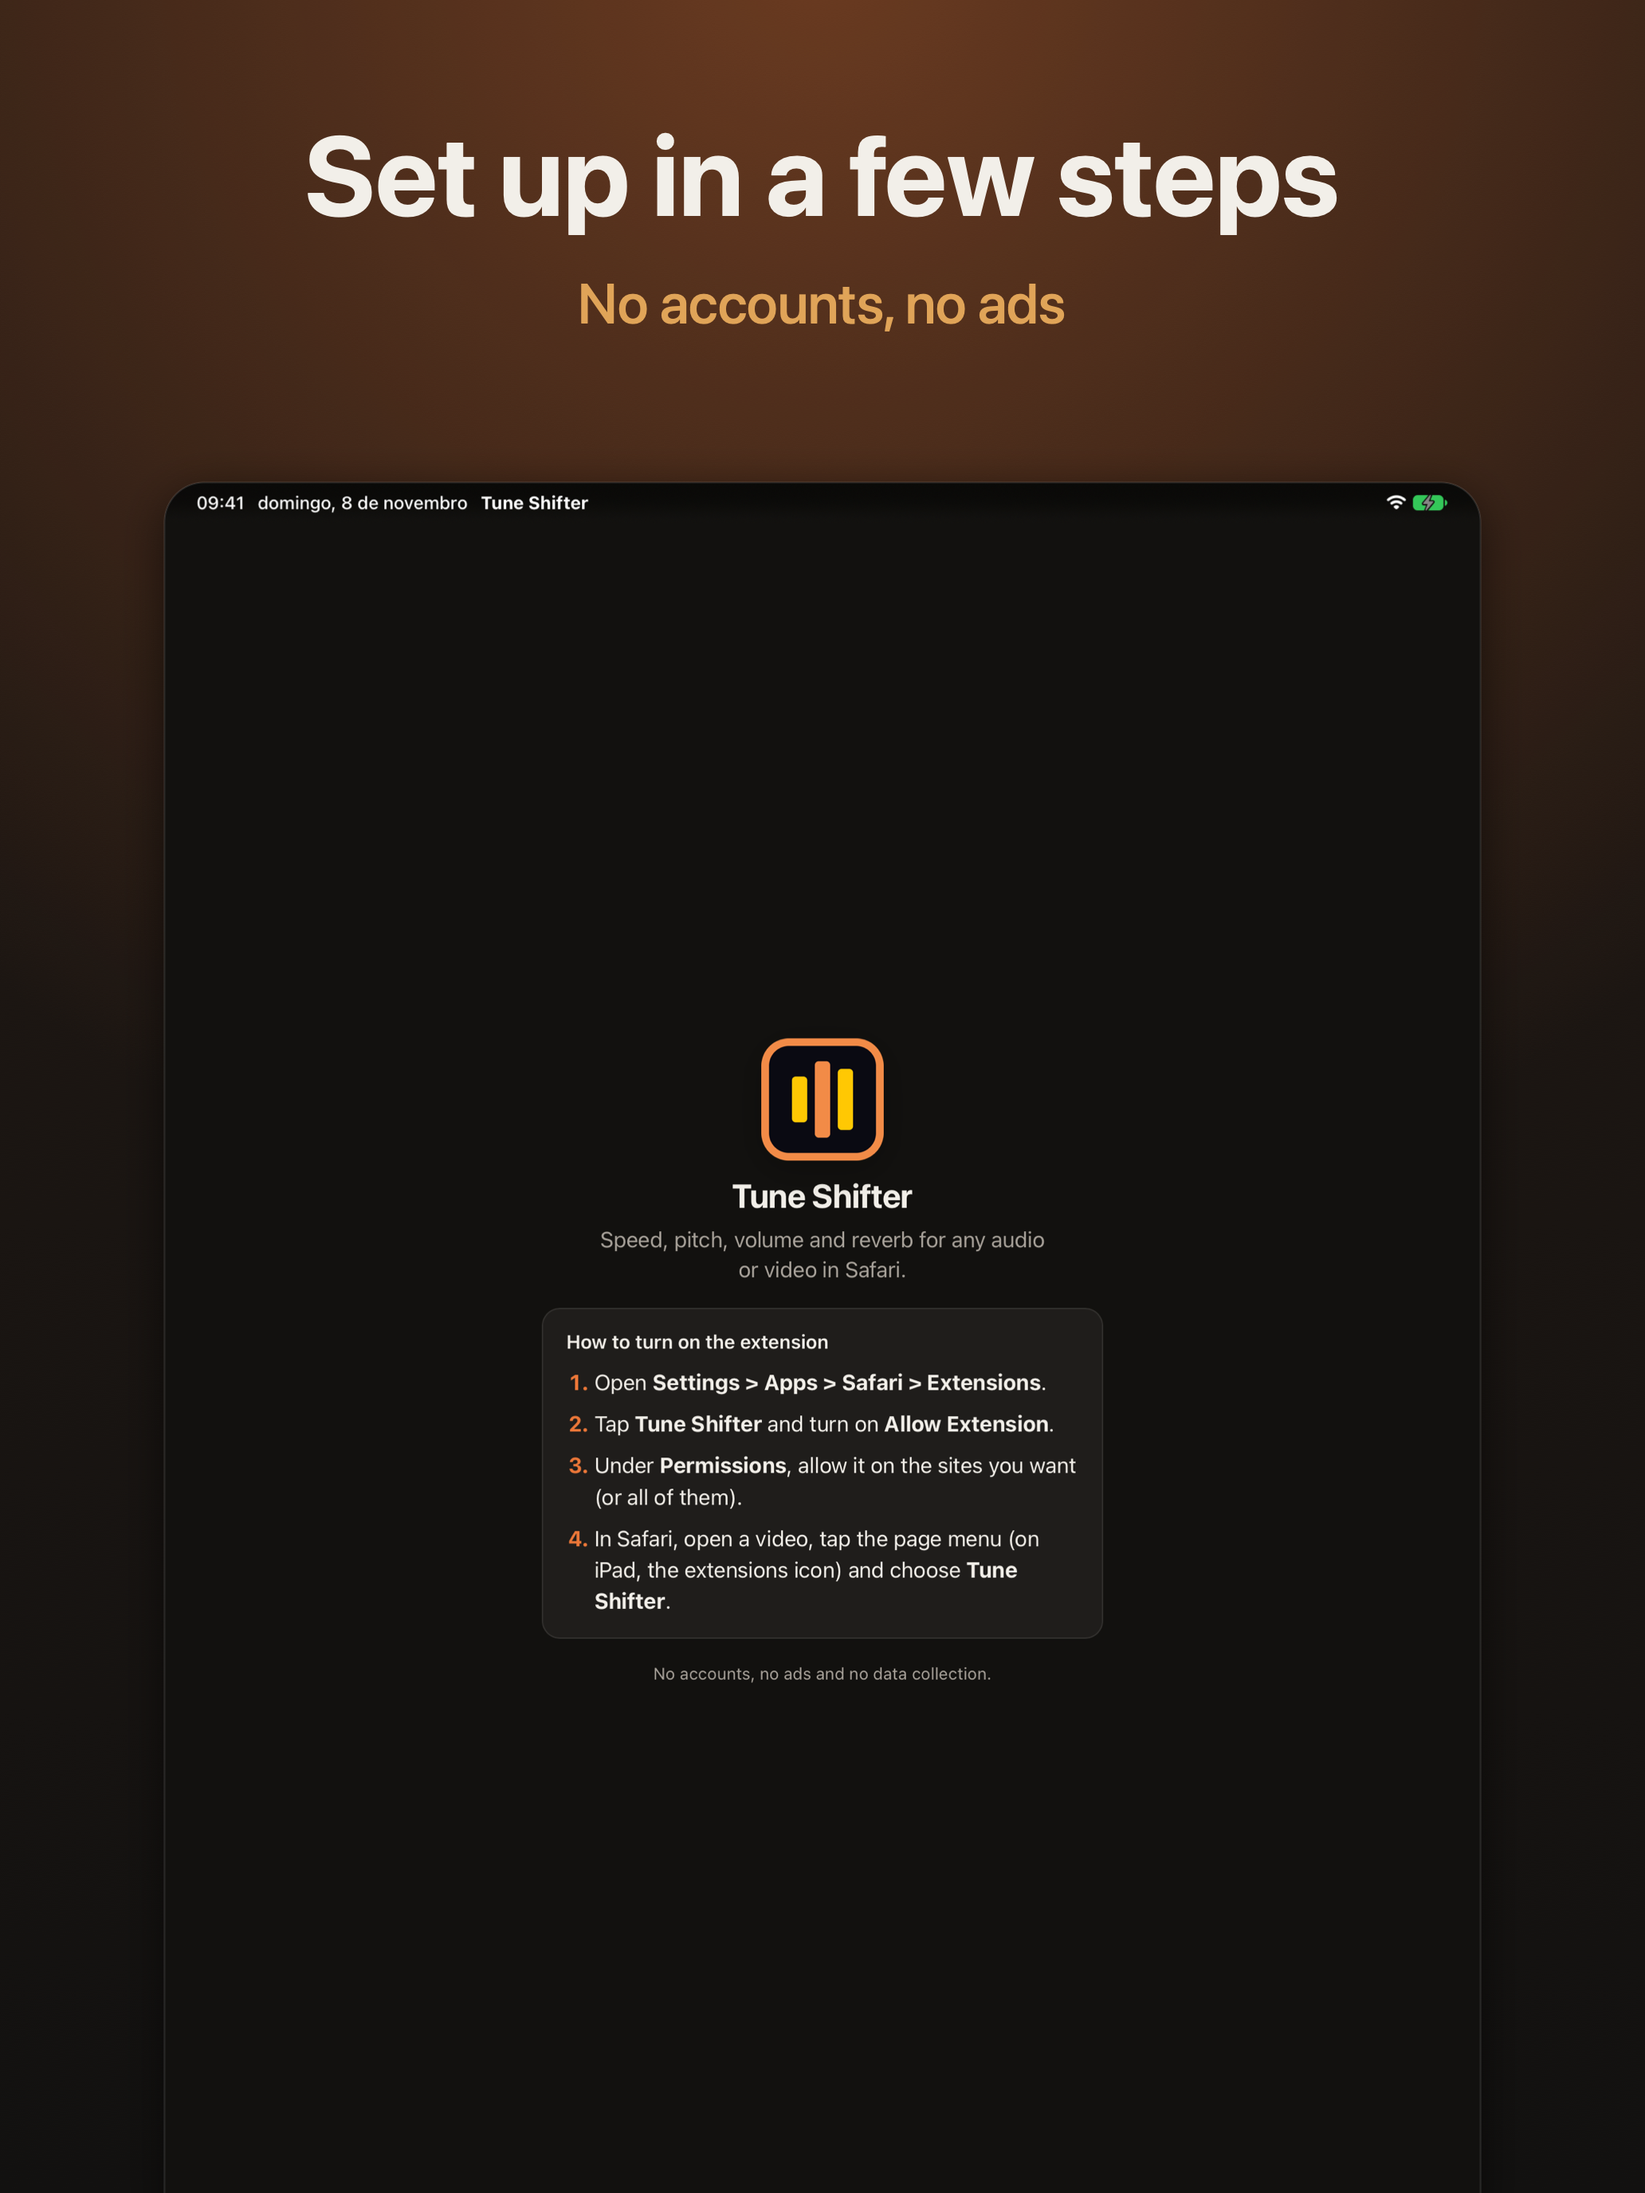
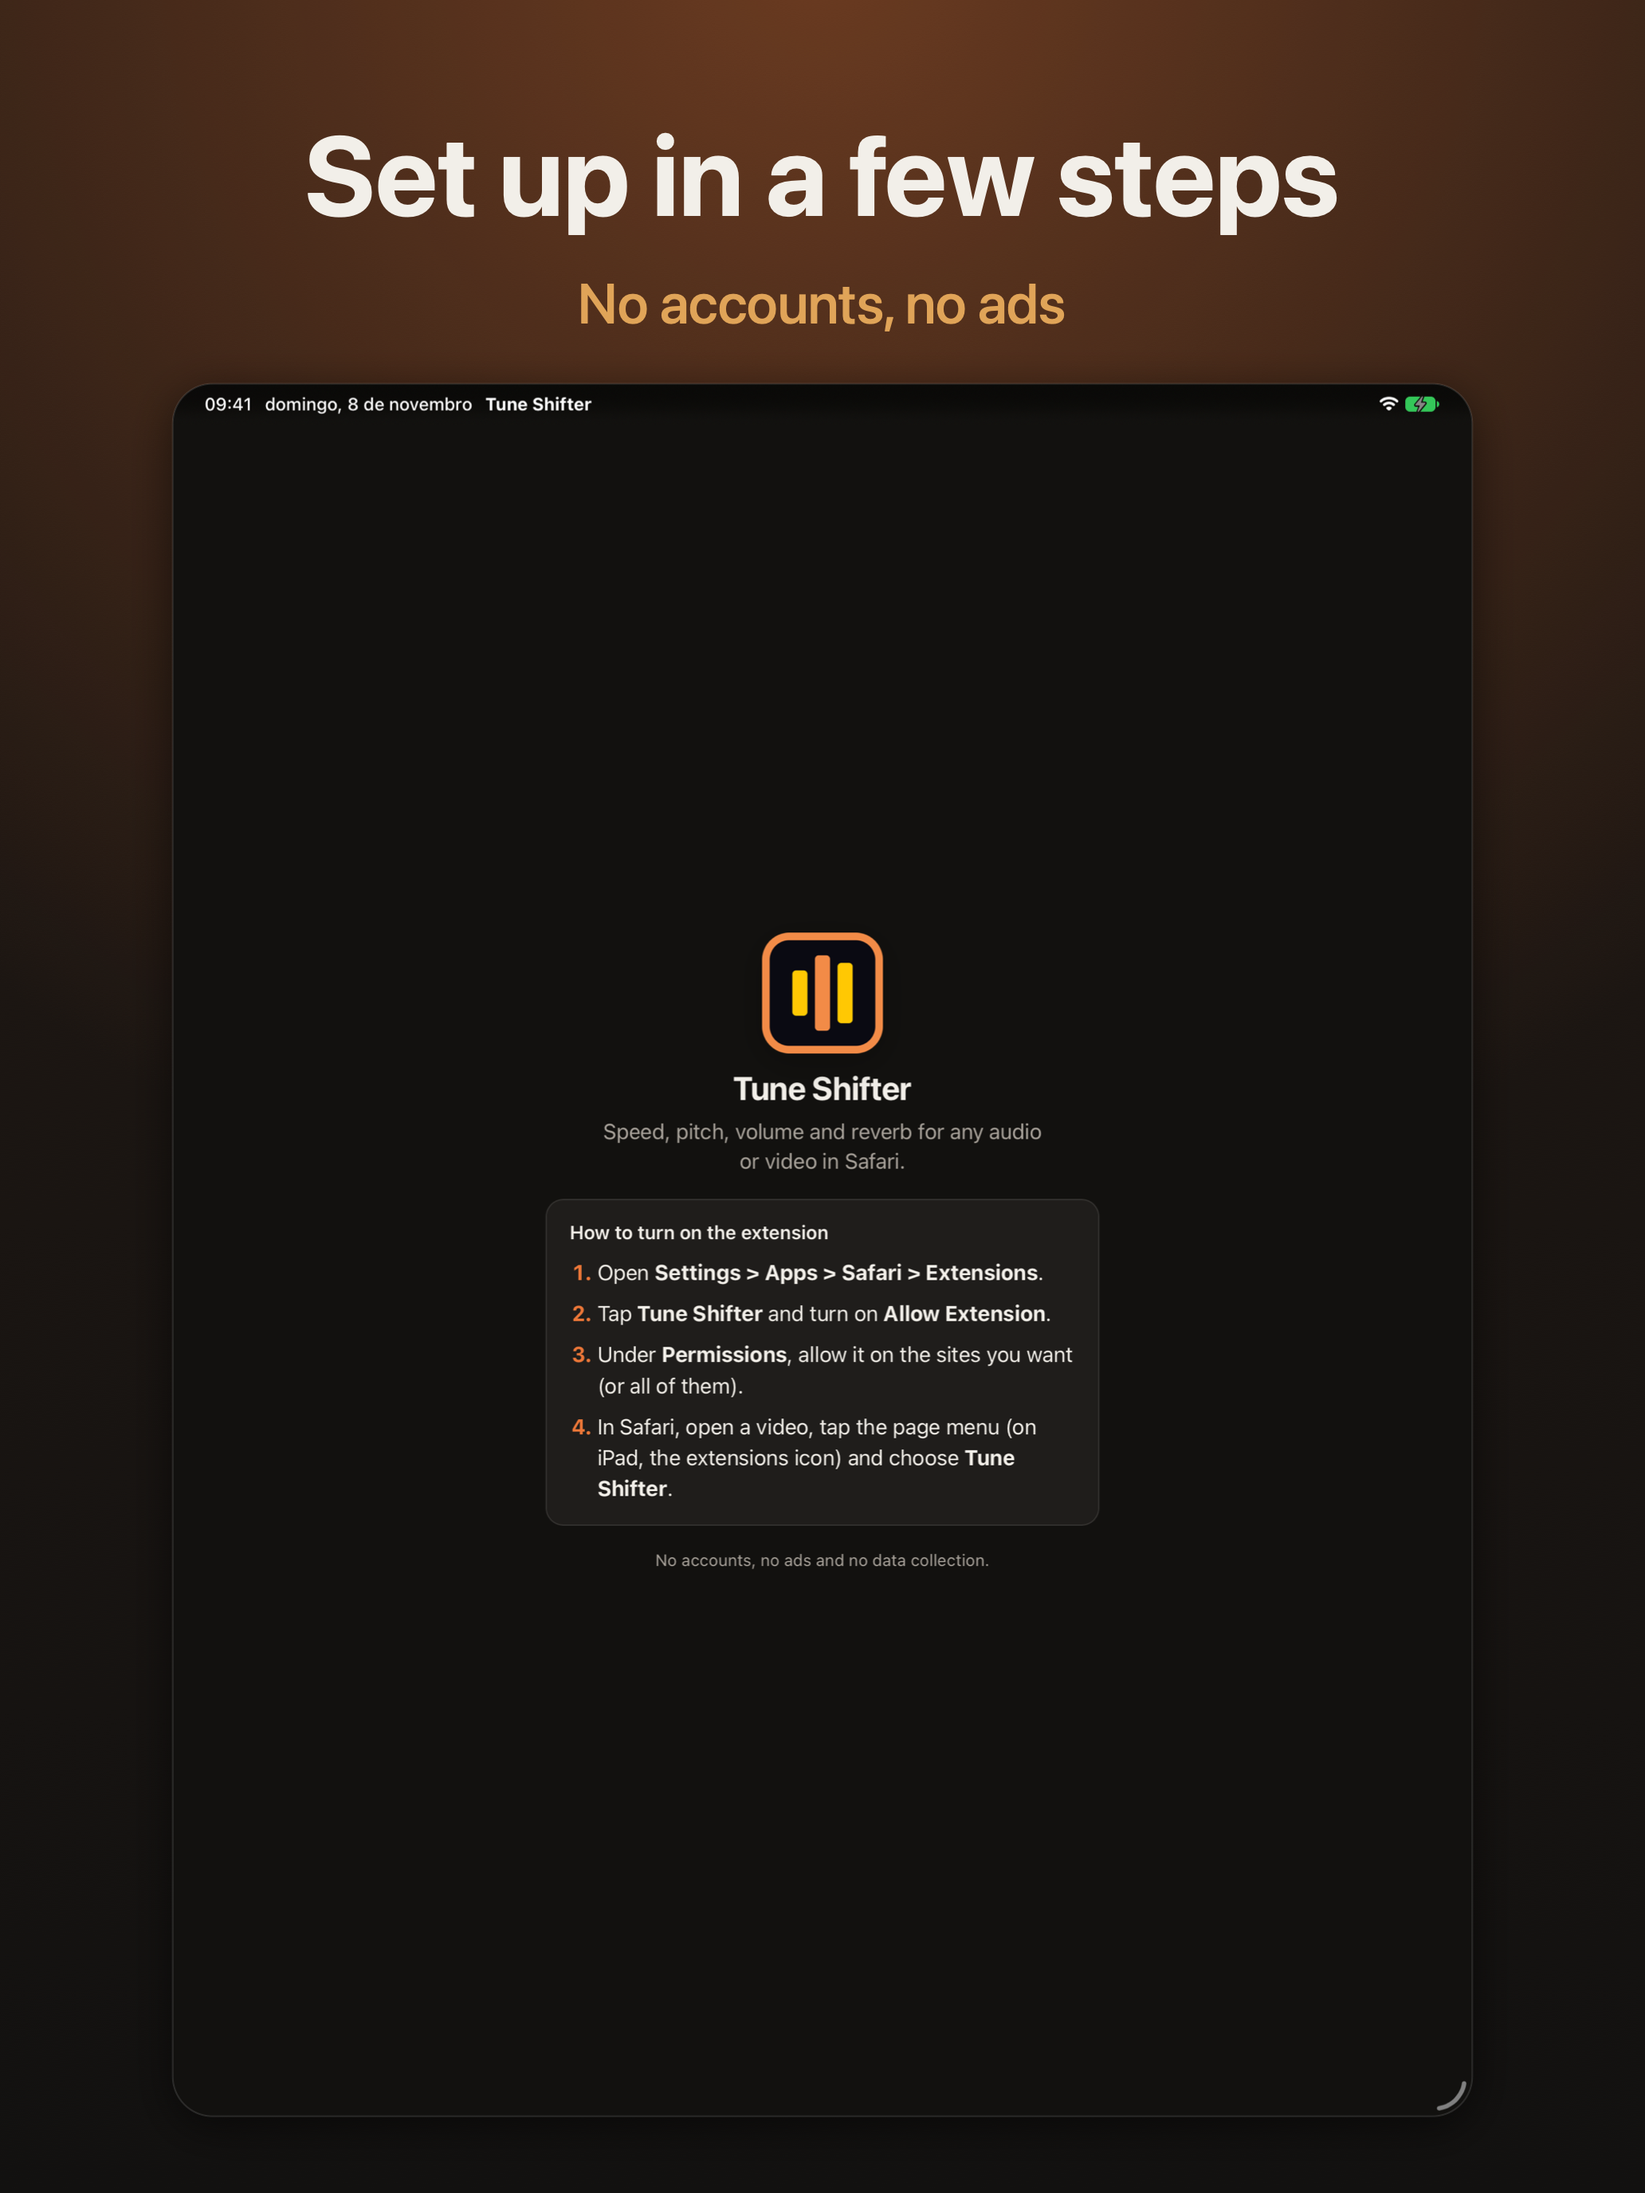
Capturas: iPhone/iPad sem reverb (só velocidade e tom), popup inteiro no iPhone, Mac sobre página clara

Changed region(s): [[0.3411, 0.4062, 0.6512, 0.75], [0.093, 0.1562, 0.8992, 0.25], [0.3721, 0.5, 0.4031, 0.5312]]

diff --git a/scripts/safari-screenshots.swift b/scripts/safari-screenshots.swift
@@ -83,16 +83,19 @@ func save(_ img: CGImage, _ rel: String) {
 }
 
 struct Caption { let title: String; let sub: String }
+// [0] só no Mac (o reverb é só do Mac); [3] é a do popup no iPhone/iPad (velocidade e tom).
 let captions: [String: [Caption]] = [
   "pt-PT": [
     Caption(title: "Velocidade, reverb e tom", sub: "Em qualquer áudio ou vídeo no Safari"),
     Caption(title: "Sempre à mão", sub: "Abre a partir do menu do Safari"),
     Caption(title: "Liga em poucos passos", sub: "A app explica tudo, sem contas nem anúncios"),
+    Caption(title: "Velocidade e tom", sub: "Em qualquer áudio ou vídeo no Safari"),
   ],
   "en": [
     Caption(title: "Speed, reverb and pitch", sub: "On any audio or video in Safari"),
     Caption(title: "Always within reach", sub: "Open it right from Safari's menu"),
     Caption(title: "Set up in a few steps", sub: "No accounts, no ads"),
+    Caption(title: "Speed and pitch", sub: "On any audio or video in Safari"),
   ],
 ]
 
@@ -103,7 +106,8 @@ func portrait(_ w: Int, _ h: Int, _ shot: CGImage, _ c: Caption, radius: CGFloat
     let titleSize = W * 0.068
     text(ctx, c.title, size: titleSize, weight: .bold, color: color(0xF2EFE9), in: CGRect(x: W * 0.06, y: H - H * 0.115, width: W * 0.88, height: titleSize * 1.3))
     text(ctx, c.sub, size: titleSize * 0.5, weight: .medium, color: color(0xE0A458), in: CGRect(x: W * 0.06, y: H - H * 0.115 - titleSize * 1.05, width: W * 0.88, height: titleSize * 0.9))
-    place(ctx, shot, in: CGRect(x: W * 0.1, y: -H * 0.02, width: W * 0.8, height: H * 0.8), radius: radius)
+    // Captura inteira, com margem em baixo (a folha do iPhone fica junto ao fundo do ecrã).
+    place(ctx, shot, in: CGRect(x: W * 0.1, y: H * 0.035, width: W * 0.8, height: H * 0.79), radius: radius)
   }
 }
 
@@ -142,10 +146,10 @@ let macApp = load("mac-app-pt.png")
 for (loc, cap) in captions {
   let iphoneApp = load("iphone-app-\(loc == "pt-PT" ? "pt" : "en").png")
   let ipadApp = load("ipad-app-\(loc == "pt-PT" ? "pt" : "en").png")
-  save(portrait(1320, 2868, iphonePopupDark, cap[0], radius: 90), "iphone/\(loc)/1.png")
+  save(portrait(1320, 2868, iphonePopupDark, cap[3], radius: 90), "iphone/\(loc)/1.png")
   save(portrait(1320, 2868, iphonePopupLight, cap[1], radius: 90), "iphone/\(loc)/2.png")
   save(portrait(1320, 2868, iphoneApp, cap[2], radius: 90), "iphone/\(loc)/3.png")
-  save(portrait(2064, 2752, ipadSafari, cap[0], radius: 50), "ipad/\(loc)/1.png")
+  save(portrait(2064, 2752, ipadSafari, cap[3], radius: 50), "ipad/\(loc)/1.png")
   save(portrait(2064, 2752, ipadApp, cap[2], radius: 50), "ipad/\(loc)/2.png")
   save(macWindow(macSafari, cap[0]), "mac/\(loc)/1.png")
   if loc == "pt-PT" { save(landscape(macApp, cap[2]), "mac/\(loc)/2.png") }

diff --git a/scripts/safari-popup-raws.py b/scripts/safari-popup-raws.py
@@ -7,12 +7,14 @@
 O Safari não deixa capturar o popup de uma extensão sem o abrir à mão, por isso:
 1. o popup compilado (dist-safari/popup) é desenhado em Chrome headless com um
    `chrome.tabs` falso que devolve um áudio real a tocar (1.25x, preservar tom,
-   reverb 40 %; no iOS sem volume, como na extensão);
+   reverb 40 % só no Mac; no iOS sem volume nem reverb, como na extensão);
 2. é posto por cima de capturas reais do Safari (Simulador via simctl e Safari no
    macOS), na forma em que o Safari mostra popups de extensões: folha em baixo no
    iPhone, popover no iPad e no Mac.
 
-Entradas em safari/screenshots/raw/: iphone-page.png, ipad-page.png, mac-safari-base.png.
+Entradas em safari/screenshots/raw/: iphone-page.png (Simulador), ipad-page.png (Simulador),
+mac-safari-base.png (janela do Safari no macOS) e mac-page.png (página da Wikimedia Commons
+em Chrome headless a 1470x871 @2x).
 Saídas no mesmo sítio: iphone-popup-dark.png, iphone-popup-light.png, ipad-popup.png,
 mac-safari-popup.png.
 """
@@ -132,20 +134,18 @@ def ipad(page, pop):
     return img.convert("RGB")
 
 
-def mac(base, pop, bar):
-    """Janela real do Safari (macOS): página de áudio da Wikimedia e popover sob o ícone."""
+def mac(base, pop, page):
+    """Janela real do Safari (macOS): página do ficheiro na Wikimedia Commons e popover sob o ícone."""
     img = base.copy()
     alpha = img.split()[3]
     W, H = img.size
     d = ImageDraw.Draw(img)
-    page_bg = (38, 38, 38, 255)
-    d.rectangle((0, 105, W, H), fill=page_bg)  # tapa a página de teste e o popover antigo
-    # Página de áudio: a barra de controlos do WebKit (mesma captura do iPad, também @2x) ao centro.
-    img.paste(bar, ((W - bar.width) // 2, 105 + (H - 105 - bar.height) // 2))
-    # Barra de endereço: endereço real e sem o ícone de tradução (não aparece em ficheiros de áudio).
+    # Página clara (a do ficheiro na Commons, @2x) por baixo da barra: o popover escuro destaca-se.
+    img.paste(page.crop((0, 0, W, H - 105)), (0, 105))
+    # Barra de endereço: endereço real e sem o ícone de tradução.
     field = (57, 57, 57, 255)
-    d.rectangle((1410, 30, 1540, 74), fill=field)
-    d.text((1475, 52), "upload.wikimedia.org", font=font(27), fill=(236, 236, 236), anchor="mm")
+    d.rectangle((1380, 30, 1570, 74), fill=field)
+    d.text((1475, 52), "commons.wikimedia.org", font=font(27), fill=(236, 236, 236), anchor="mm")
     speaker = img.crop((1928, 28, 1972, 76))
     d.rectangle((1926, 28, 2018, 76), fill=field)
     img.paste(speaker, (1972, 28))
@@ -168,12 +168,13 @@ def main():
         srv = http.server.ThreadingHTTPServer(("127.0.0.1", 0), partial(Quiet, directory=tmp))
         threading.Thread(target=srv.serve_forever, daemon=True).start()
         port = srv.server_address[1]
-        ios = dict(touch=True, width=1272 / 3, scale=3, volumeSupported=False)
+        # iOS/iPadOS: sem volume nem reverb (o Safari do iOS não aplica Web Audio), como a extensão.
+        ios = dict(touch=True, width=1272 / 3, scale=3, volumeSupported=False, reverbSupported=False, reverbEnabled=False)
         pd = render(tmp, port, "ios-dark", dark=True, currentTime=23, **ios)
         pl = render(tmp, port, "ios-light", dark=False, currentTime=23, **ios)
-        pi = render(tmp, port, "ipad", dark=True, touch=True, width=360, scale=2, currentTime=2, volumeSupported=False)
-        pm = render(tmp, port, "mac", dark=True, touch=False, width=300, scale=2, currentTime=2,
-                    volumeSupported=True, volumeEnabled=True, volume=0.8)
+        pi = render(tmp, port, "ipad", dark=True, touch=True, width=360, scale=2, currentTime=2, volumeSupported=False, reverbSupported=False, reverbEnabled=False)
+        pm = render(tmp, port, "mac", dark=True, touch=False, width=300, scale=2, currentTime=42, duration=187,
+                    volumeSupported=True, reverbSupported=True, volumeEnabled=True, volume=0.8)
         srv.shutdown()
     finally:
         shutil.rmtree(tmp, ignore_errors=True)
@@ -183,8 +184,8 @@ def main():
     iphone(page, pl, False).save(os.path.join(RAW, "iphone-popup-light.png"))
     ipad_page = Image.open(os.path.join(RAW, "ipad-page.png"))
     ipad(ipad_page, pi).save(os.path.join(RAW, "ipad-popup.png"))
-    bar = ipad_page.convert("RGBA").crop((380, 1420, 1690, 1520))
-    mac(Image.open(os.path.join(RAW, "mac-safari-base.png")).convert("RGBA"), pm, bar).save(os.path.join(RAW, "mac-safari-popup.png"))
+    mac_page = Image.open(os.path.join(RAW, "mac-page.png")).convert("RGBA")
+    mac(Image.open(os.path.join(RAW, "mac-safari-base.png")).convert("RGBA"), pm, mac_page).save(os.path.join(RAW, "mac-safari-popup.png"))
     print("ok")
 
 
